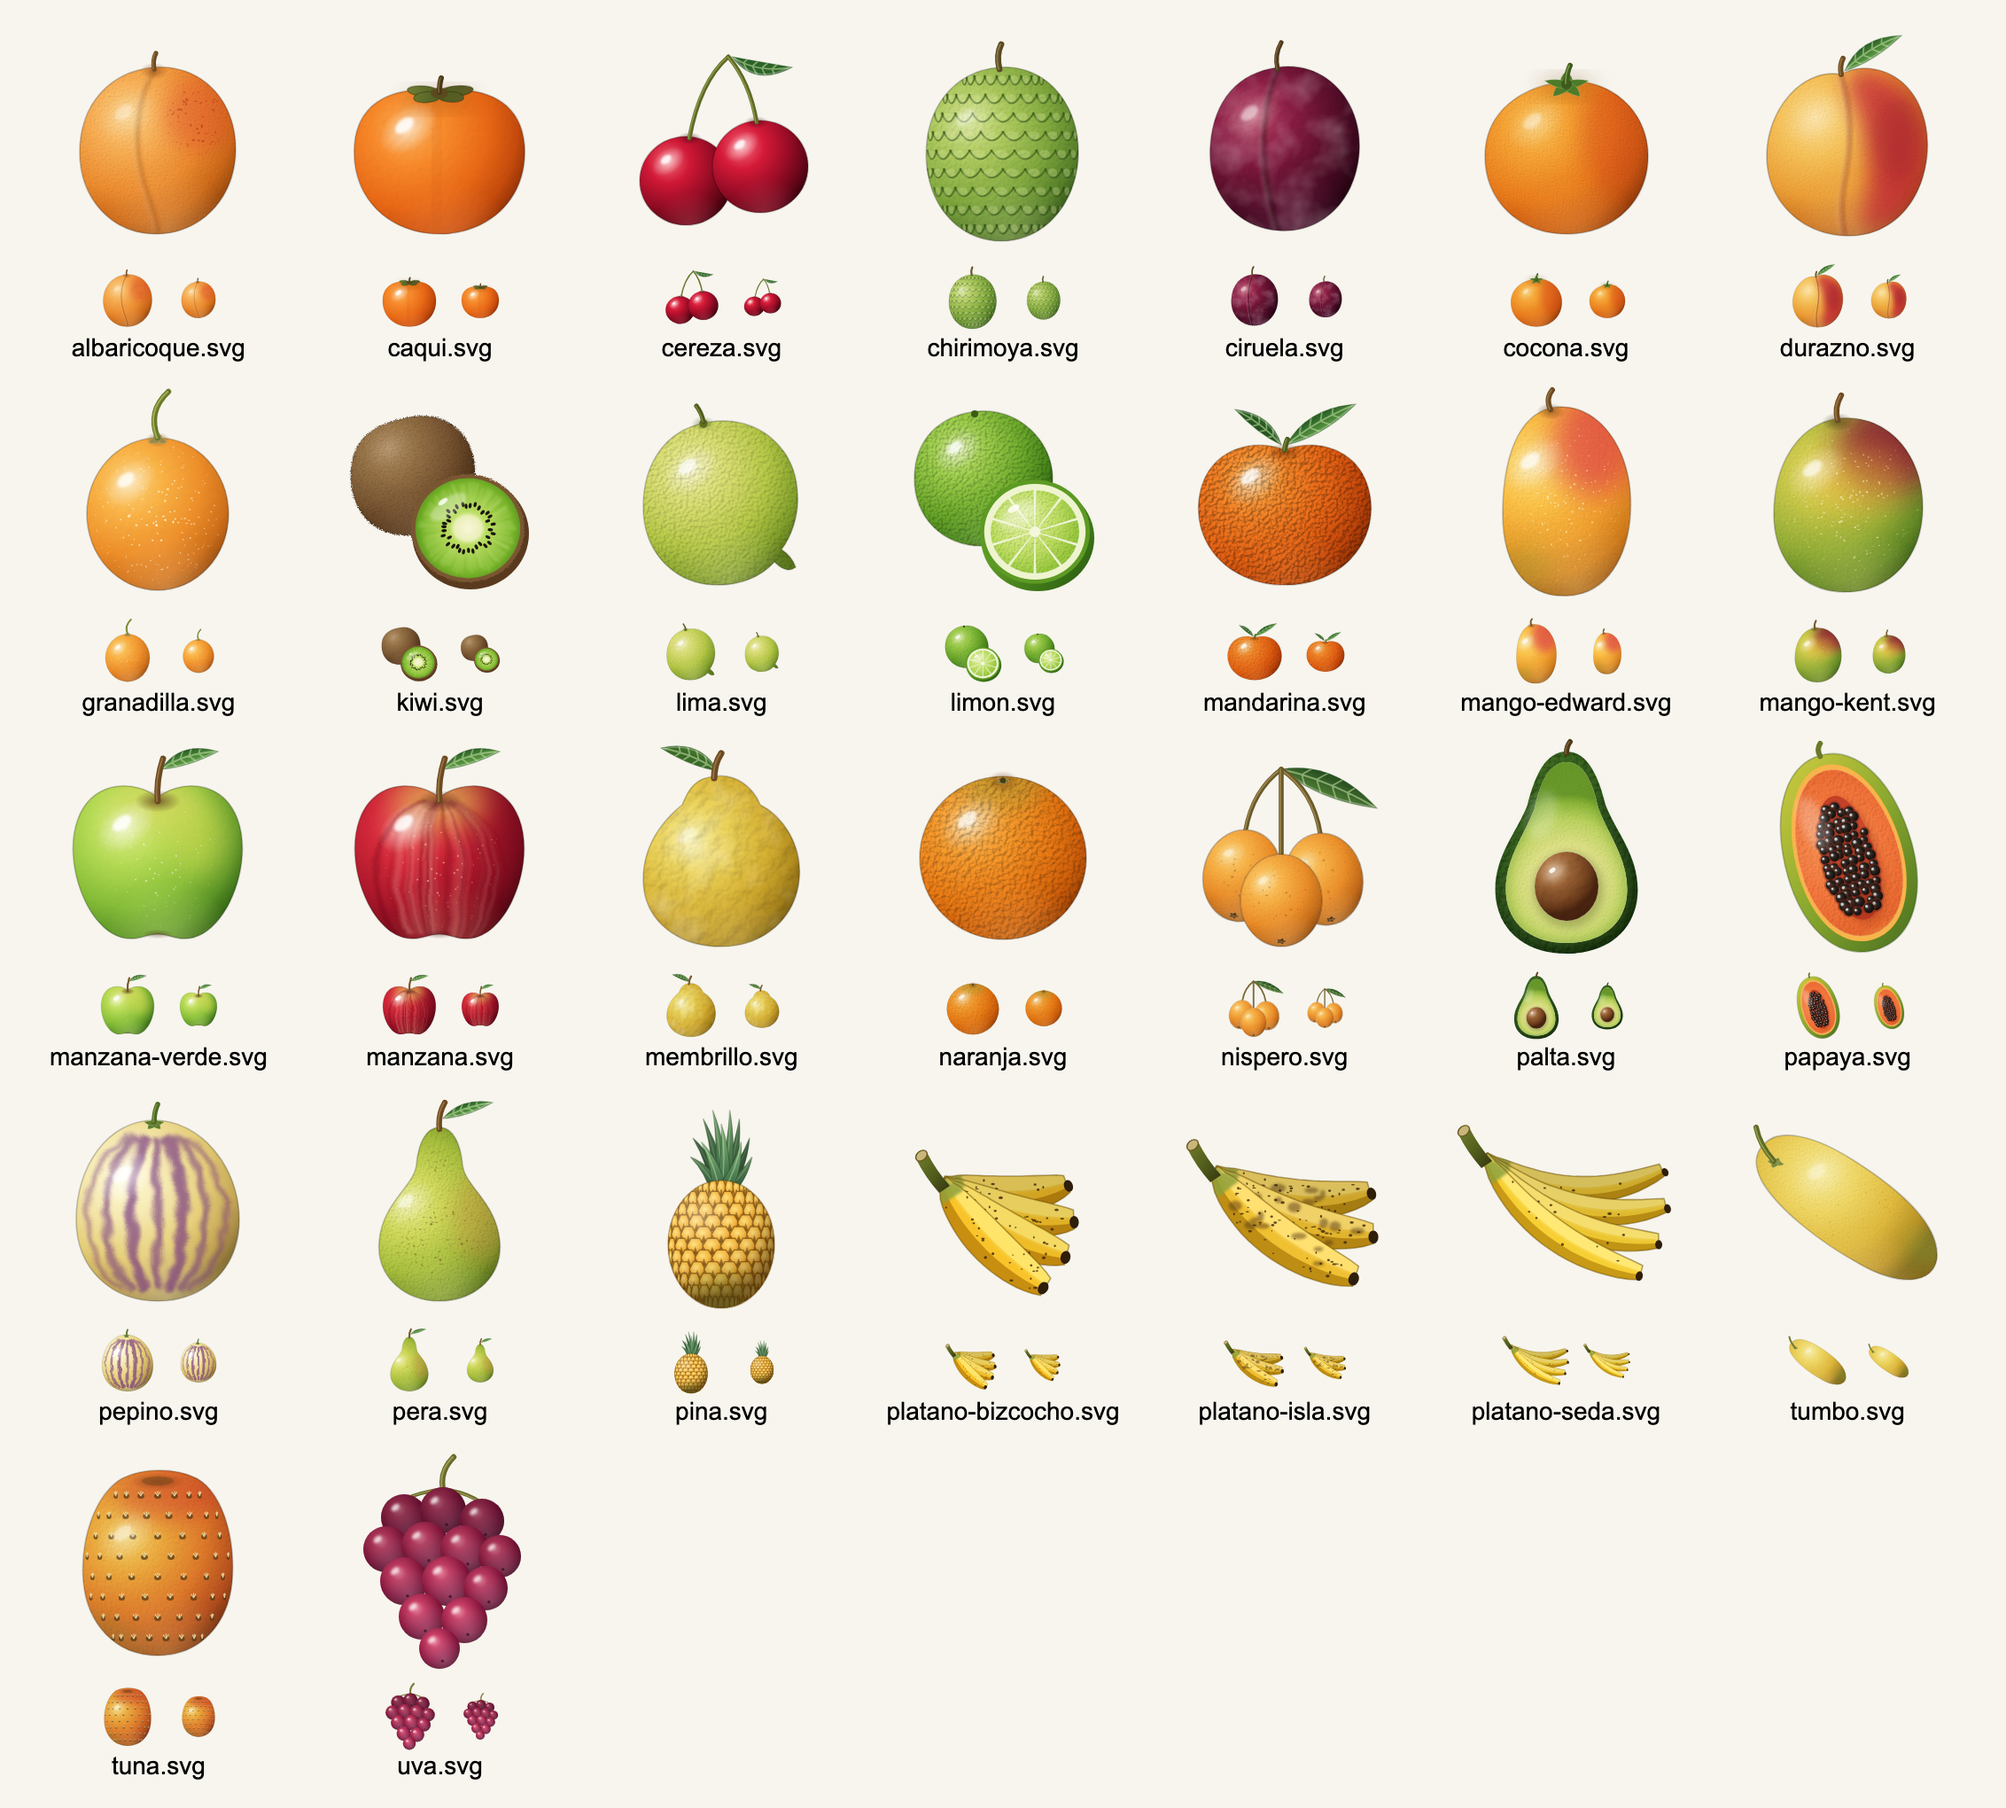
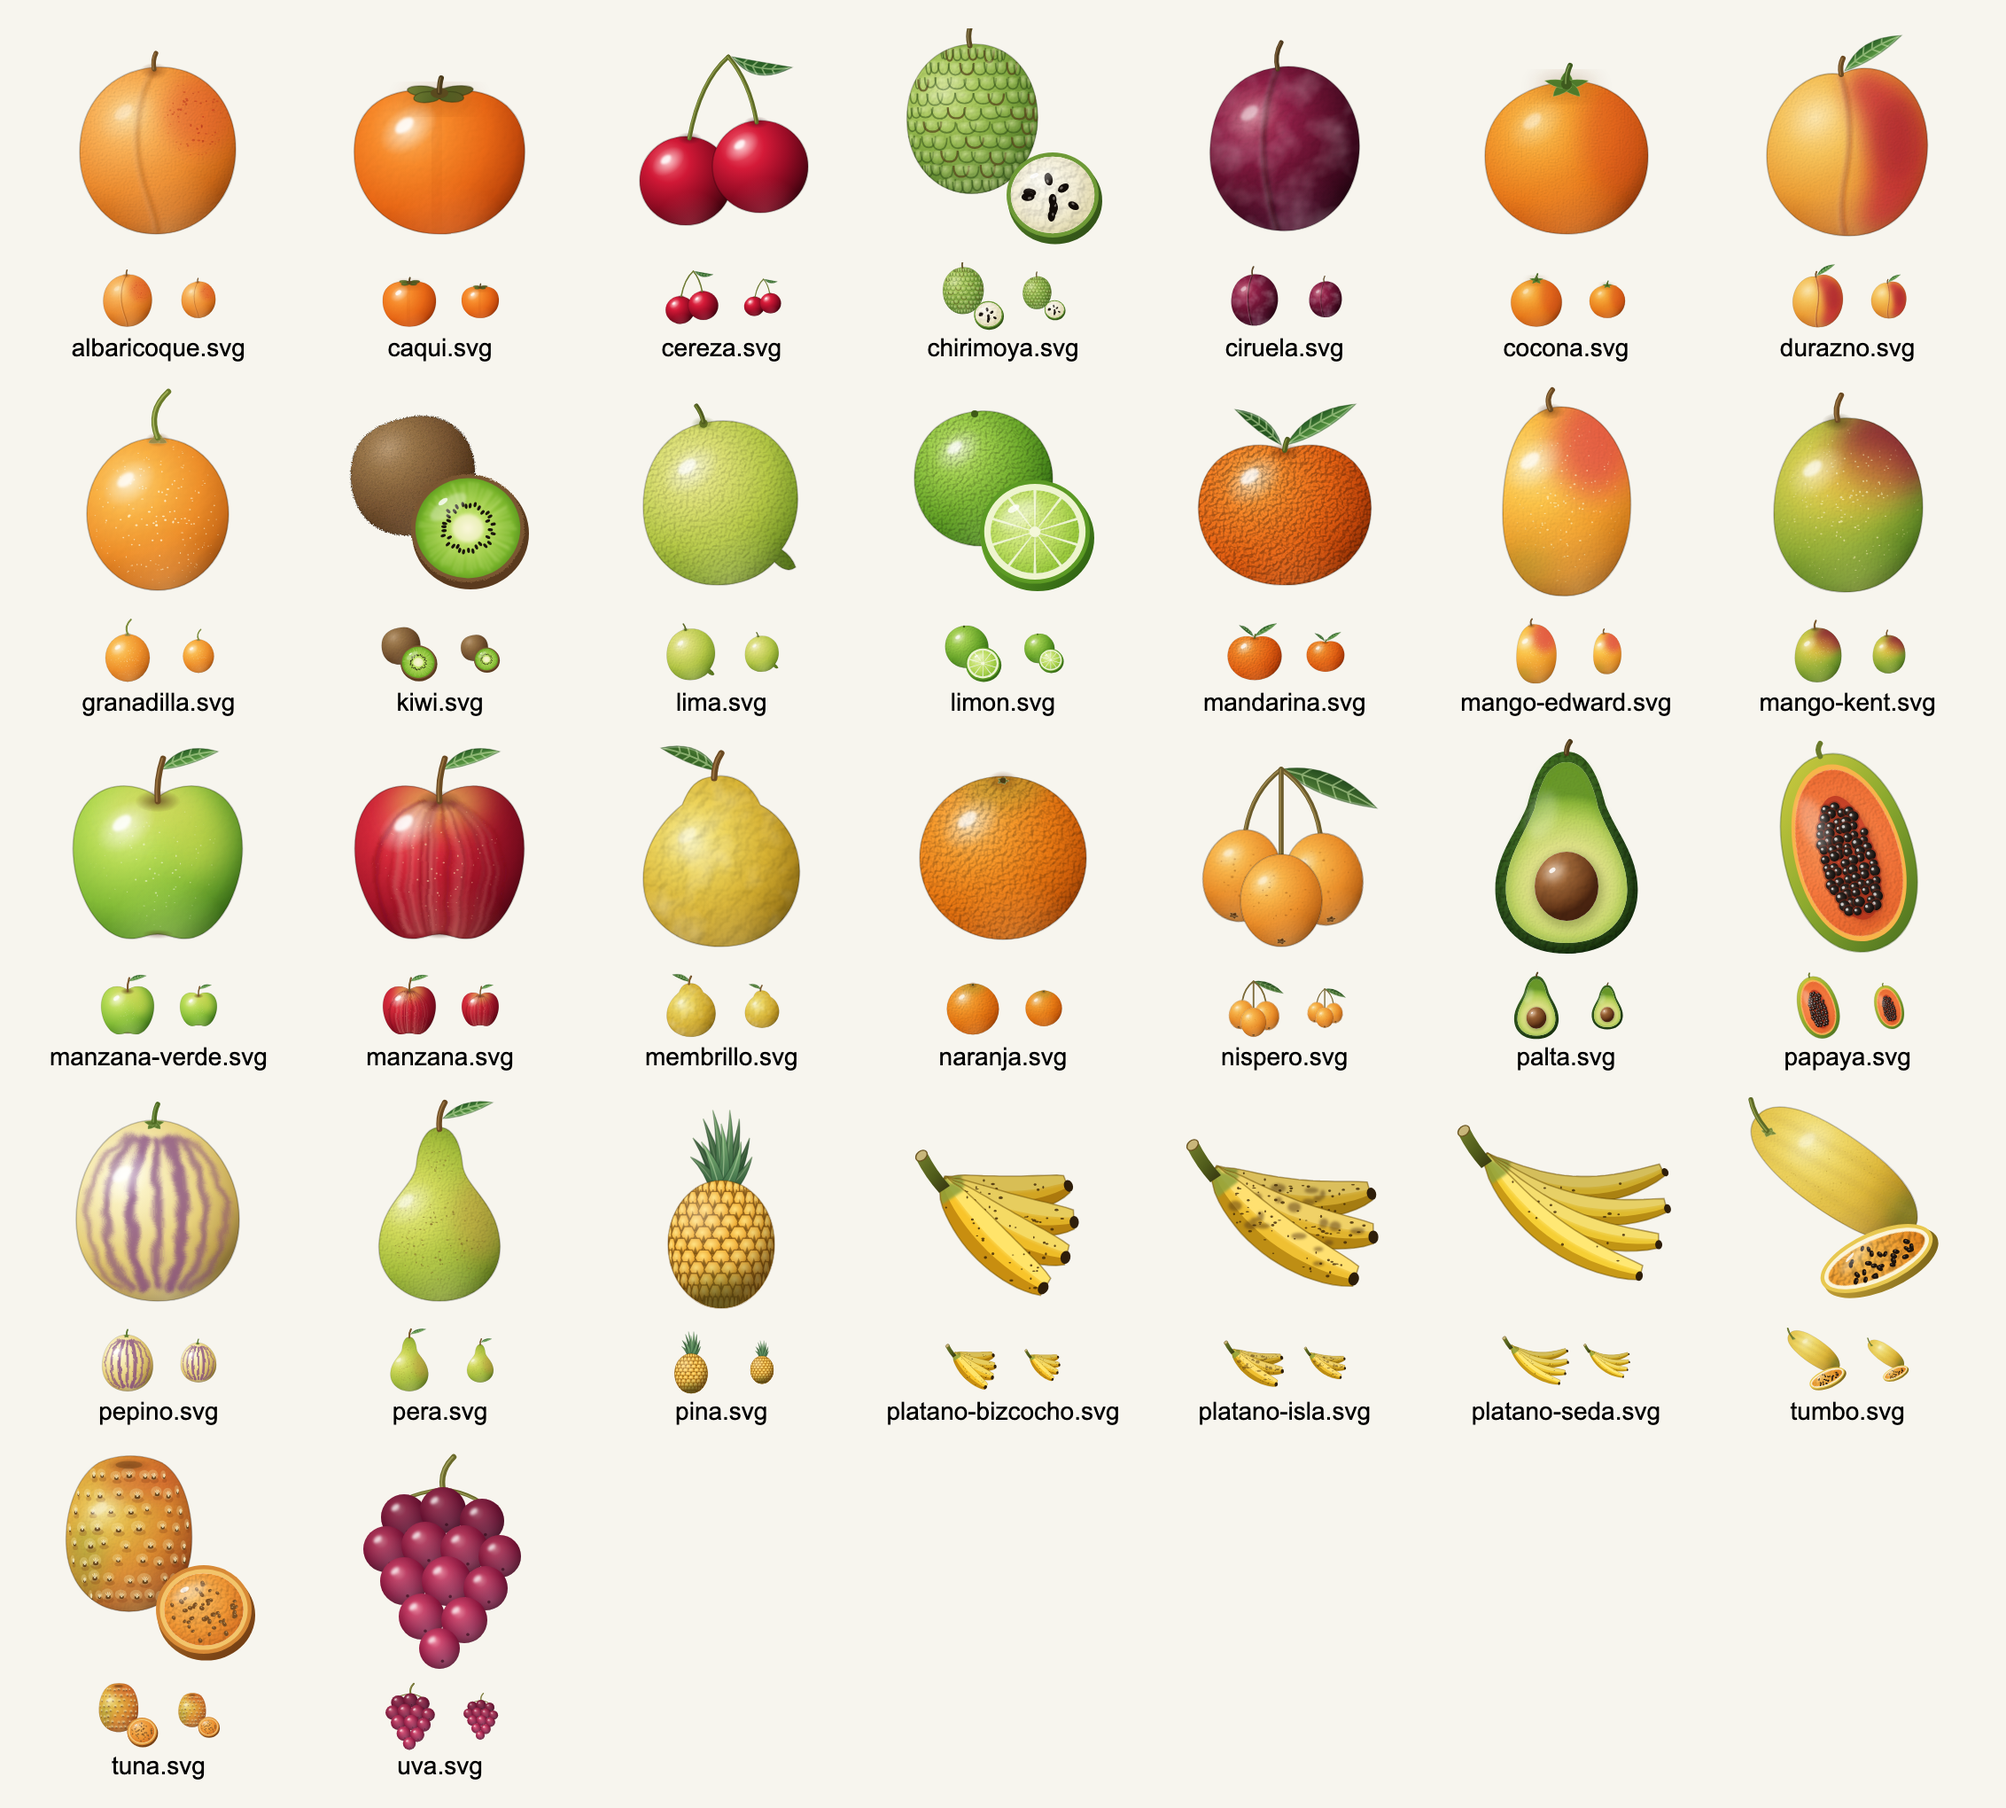
feat(diseño): tumbo, tuna y chirimoya enteras y partidas, con más detalle
La tuna lleva sus aréolas en relieve, la chirimoya sus escamas abombadas y las tres una mitad con pulpa y
pepas. La mitad partida es una sola receta (mitad() en scripts/frutas/piezas.mjs).

Changed region(s): [[0.4329, 0.0, 0.5565, 0.1853], [0.0309, 0.8029, 0.1237, 0.9882], [0.8657, 0.5868, 0.9894, 0.7721]]

diff --git a/docs/bitacora/2026-11-10-frutas-realistas.md b/docs/bitacora/2026-11-10-frutas-realistas.md
@@ -2,4 +2,5 @@
 
 - **Qué cambió:** las 14 frutas se redibujaron con volumen, textura de cáscara (poros de los cítricos, lenticelas del mango, terciopelo del durazno), brillos y detalle de cada variedad. Se sumaron 16 para cubrir el catálogo real (ADR-0016): albaricoque, caqui, cereza, chirimoya, ciruela, cocona, durazno, granadilla, lima, manzana verde, membrillo, níspero, pepino dulce, plátano bizcocho, tumbo y tuna. Salen de `scripts/frutas/` con `pnpm frutas` (`--hoja` deja la hoja de muestra en `docs/maquetas/frutas/hoja.html`).
 - **Cómo se verificó:** `lib/operaciones-reglas.test.ts` comprueba que cada fruta del catálogo real encuentra su dibujo y que cada dibujo tiene su archivo. Capturas de Stock a 412 y 360 px y de Ajustes a 1280 px con el catálogo real (`docs/formidable/capturas/frutas-2026-11-10/`). Comprimidas pesan 57 KB entre las 30 (la mayor, 3.6 KB); son imágenes, no cuentan en el presupuesto de JavaScript.
-- **Pendiente:** la «Bomba» del catálogo sale con su inicial hasta saber qué fruta es. El tumbo, la tuna y la chirimoya son las más esquemáticas: se pueden afinar si se ven pobres en el puesto.
+- **Afinadas después:** el tumbo, la tuna y la chirimoya eran las más esquemáticas. Ahora van enteras y partidas (pulpa y pepas), la tuna con sus aréolas en relieve y la chirimoya con escamas abombadas, de borde café algunas. La receta de la mitad partida es una sola (`mitad()` en `scripts/frutas/piezas.mjs`).
+- **Pendiente:** la «Bomba» del catálogo sale con su inicial hasta saber qué fruta es.
